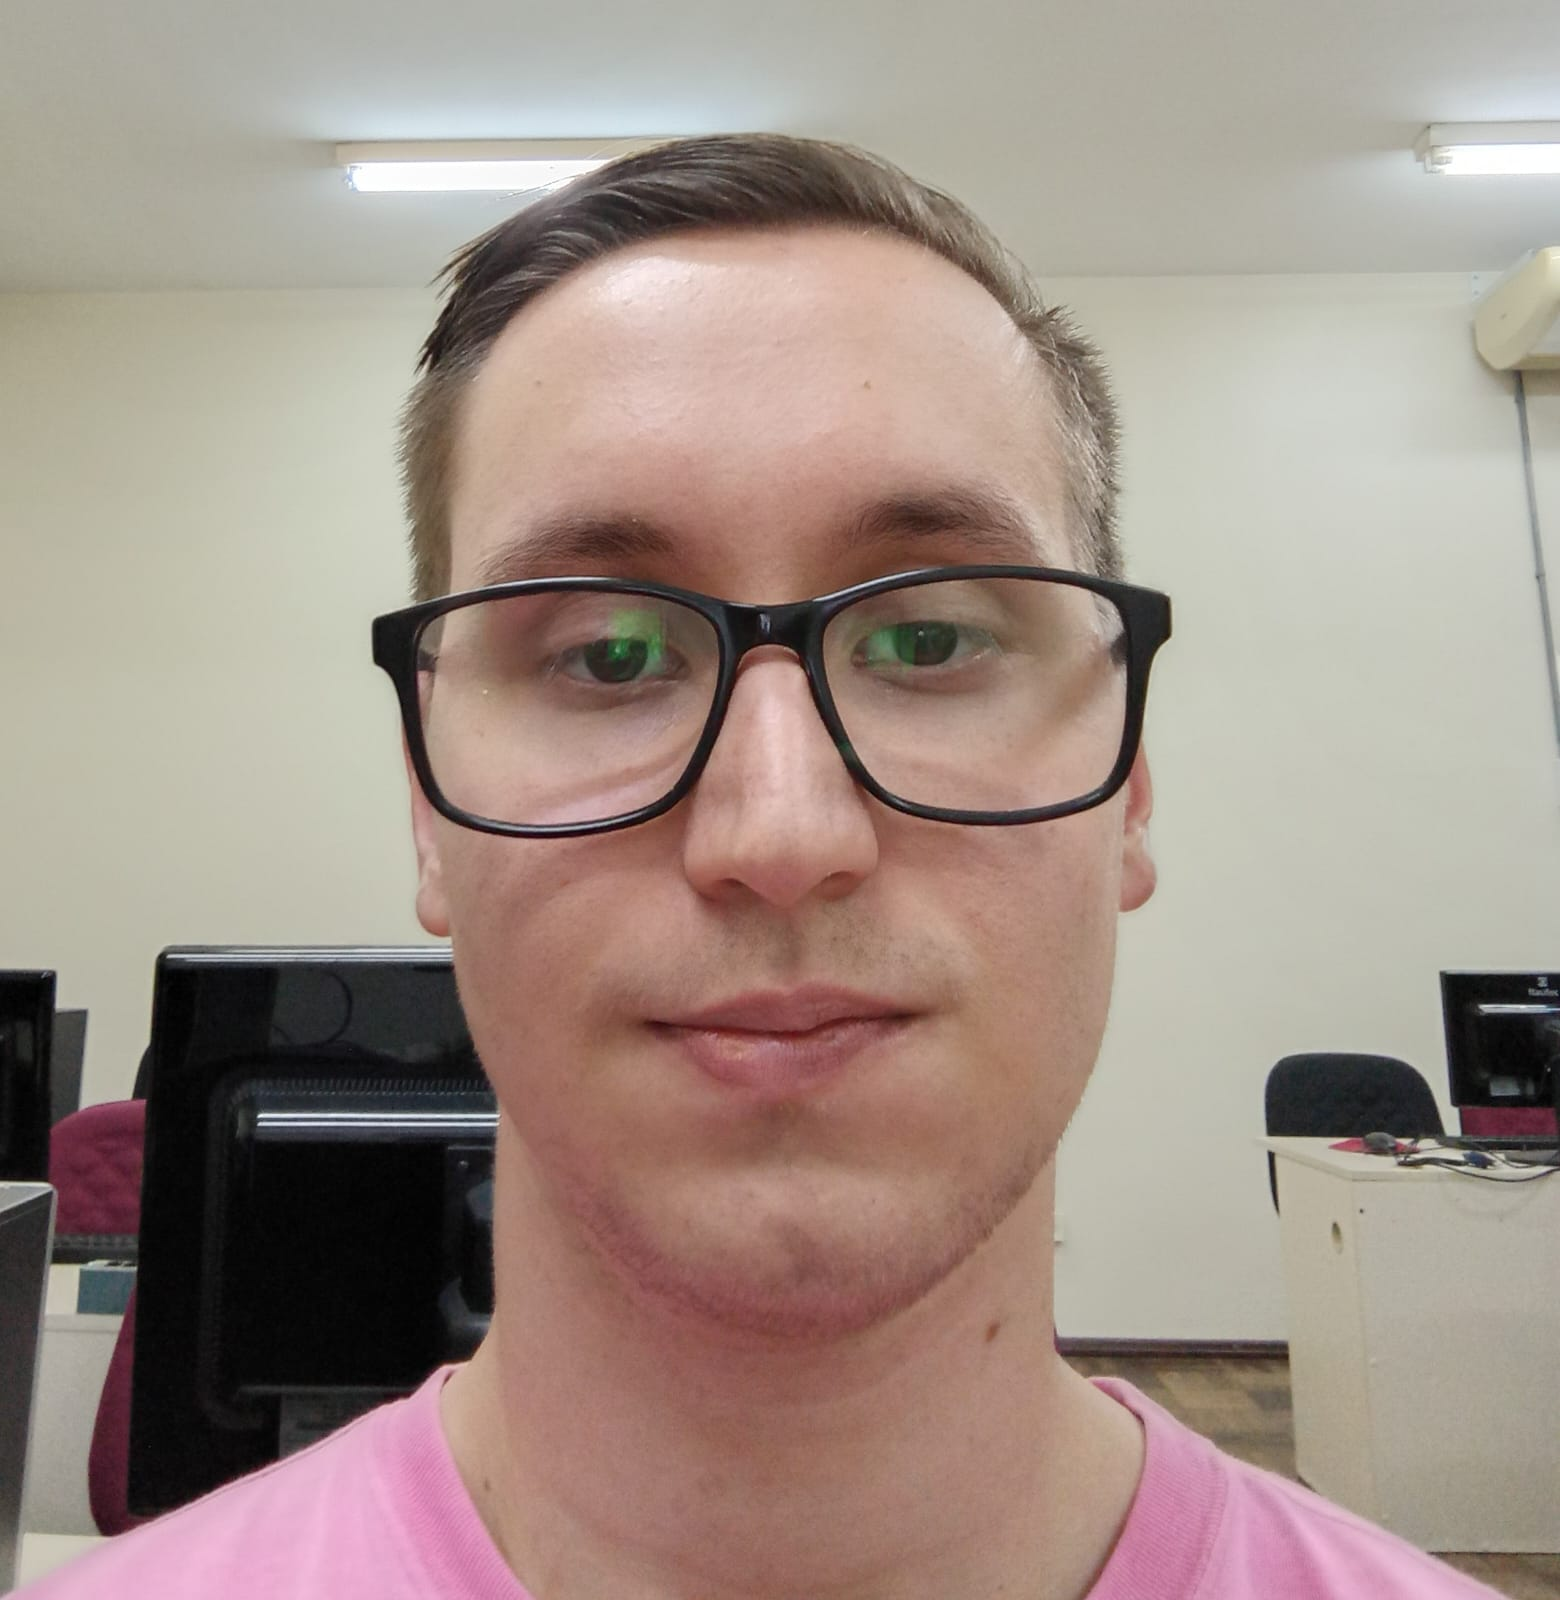
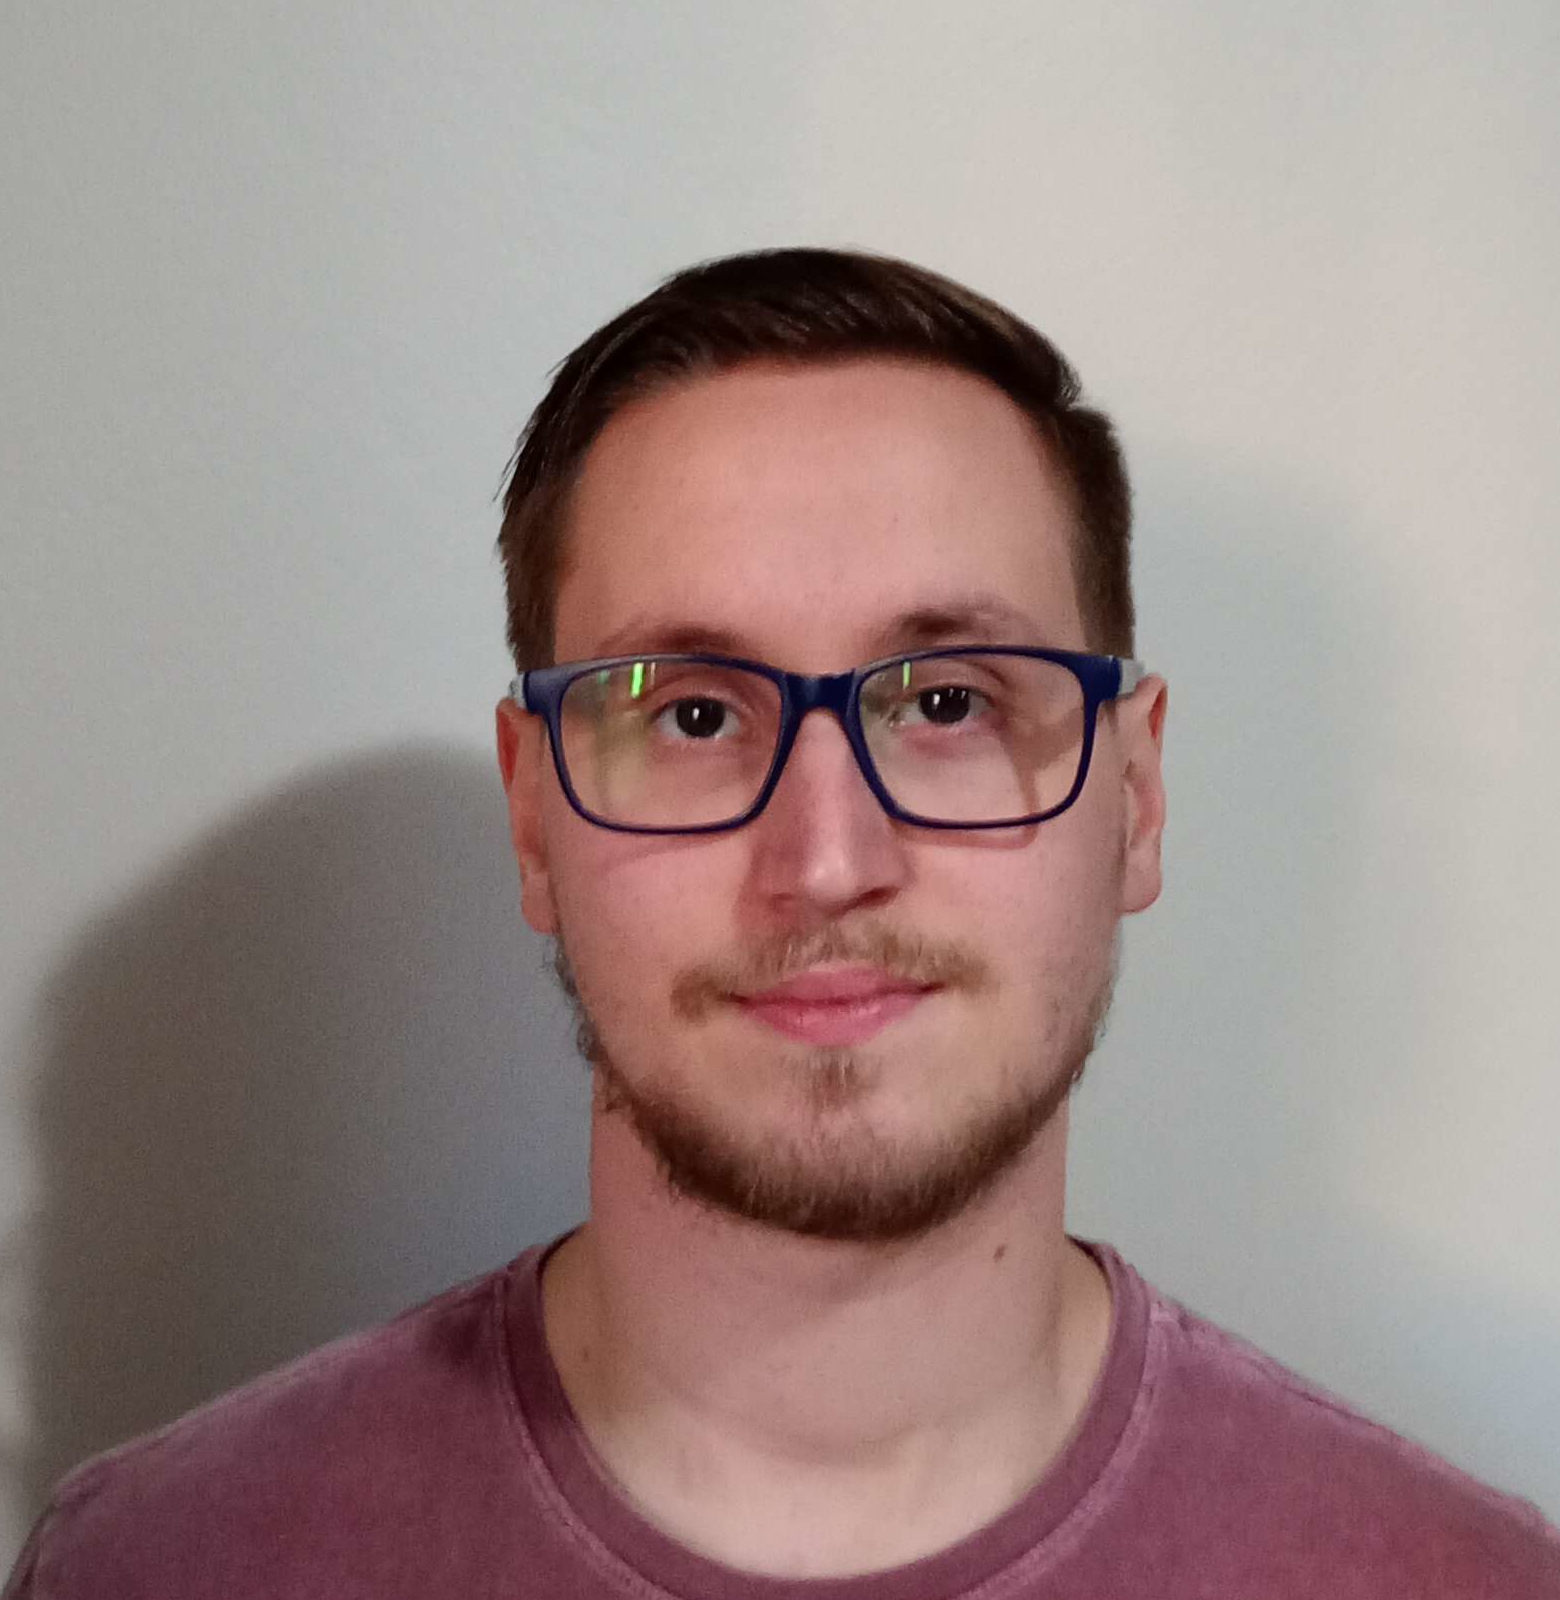
Atualização de cargo e foto

diff --git a/index.html b/index.html
@@ -1,67 +1,119 @@
 <!DOCTYPE html>
 <html lang="pt-BR">
-<head>
-    <meta charset="UTF-8">
-    <meta name="viewport" content="width=device-width, initial-scale=1.0">
+  <head>
+    <meta charset="UTF-8" />
+    <meta name="viewport" content="width=device-width, initial-scale=1.0" />
     <title>Currículo - Júlio Spezzia de Souza</title>
-    <link rel="stylesheet" href="style.css">
-</head>
-<body>
+    <link rel="stylesheet" href="style.css" />
+  </head>
+  <body>
     <div class="container">
-        <div class="sidebar">
-            <img src="image.jpeg" alt="Foto de Júlio Spezzia de Souza">
-            <h2>CONTATO</h2>
-            <p>Jaraguá do Sul - SC</p>
-            <p>(47) 99616-0376</p>
-            <p><a style="color:white" href="mailto:juliospezziasouza@gmail.com">juliospezziasouza@gmail.com</a></p>
-            <p><a style="color:white" href="https://github.com/JulioSPSouza">https://github.com/JulioSPSouza</a></p>
-            <h2>SKILLS</h2>
-            <ul>
-                <li>Desenvolvimento de Software</li>
-                <li>Lógica de programação</li>
-                <li>Capacidade Analítica</li>
-            </ul>
-            <h2>HARD SKILLS</h2>
-            <ul>
-                <li>HTML | CSS | JavaScript | ReactJS</li>
-                <li>Bancos de dados relacionais</li>
-                <li>Caché</li>
-                <li>Sistema Operacionais</li>
-                <li>Linguagens C | C# | Java</li>
-                <li>Prototipagem de Projetos</li>
-		<li>Python básico</li>
-            </ul>
-            <h2>INF. ADICIONAIS</h2>
-            <p>Conectando saberes (Projeto do IFSC para acadêmicos), onde realizei pesquisas na área da química.</p>
-            <p>Projetos de Aprendizagem Colaborativa (PAC), onde realizei projetos envolvendo robótica, automação residencial, jogos eletrônicos, aplicações mobile.</p>
-        </div>
-        <div class="content">
-            <h2>JÚLIO SPEZZIA DE SOUZA</h2>
-            <h3>PERFIL PESSOAL</h3>
-            <p>Acadêmico de Bacharelado em Engenharia de Software com habilidades distintas na resolução de problemas e domínio eficaz de sistemas operacionais.</p>
-            <p>Sou uma pessoa autodidata e estou sempre em busca de oportunidades para aprimorar meus conhecimentos. Possuo um potencial notável para destacar-me como desenvolvedor de software.</p>
-            <p>No âmbito linguístico, mantenho um nível intermediário de proficiência na língua inglesa, adquirido de forma autodidata, tanto na leitura quanto na comunicação oral.</p>
-            <p>Minha experiência abrange sistemas operacionais Windows e Unix-like, especificamente Debian e FreeBSD. Além disso, possuo conhecimento em diversas linguagens de programação, especialmente aquelas que possuem sintaxe semelhante ao c. Realizei também cursos de JavaScript e React no youtube, pois procuro me especializar em desenvolvimento web full-stack, demonstrando meu comprometimento em explorar diversas ferramentas e tecnologias no campo da engenharia de software.</p>
-            <p>Além do meu foco em desenvolvimento de software, trago também conhecimentos sólidos em princípios químicos e laboratoriais, evidenciando uma base diversificada e uma abordagem multidisciplinar aos meus estudos.</p>
-            <h3>HISTÓRICO ACADÊMICO</h3>
-            <p><strong>Centro Universitário Católica de SC</strong></p>
-            <p>Bacharelado em Engenharia de Software - Concluído</p>
-            <p><strong>Instituto Federal de SC</strong></p>
-            <p>Técnico em Química no IFSC - Concluído</p>
-            <h3>EXPERIÊNCIA PROFISSIONAL</h3>
-            <p><strong>Auxiliar administrativo</strong></p>
-            <p>Auto Elétrica Gevocar - 2016 á 2018 </p>
-            <ul>
-                <li>Durante minha atuação, fui responsável no auxílio da parte administrativa e conferência de estoque</li>
-                <li><strong>Habilidades Interpessoais Adquiridas:</strong> Gestão Administrativa | Comunicação Efetiva | Solução Criativa de Problemas</li>
-            </ul>
-            <p><strong>Montador de peças elétricas</strong></p>
-            <p>WEG - fev de 2022 até o momento</p>
-            <ul>
-                <li>Durante minha atuação, trabalhei com montagem de capacitores</li>
-                <li><strong>Habilidades Interpessoais Adquiridas:</strong> Conhecimento de ferramentas e equipamentos | Cumprimento de Padrões de Qualidade | Testes e Diagnósticos</li>
-            </ul>
-        </div>
+      <div class="sidebar">
+        <img src="image.jpeg" alt="Foto de Júlio Spezzia de Souza" />
+        <h2>CONTATO</h2>
+        <p>Jaraguá do Sul - SC</p>
+        <p>(47) 99616-0376</p>
+        <p>
+          <a style="color: white" href="mailto:juliospezziasouza@gmail.com"
+            >juliospezziasouza@gmail.com</a
+          >
+        </p>
+        <p>
+          <a style="color: white" href="https://github.com/JulioSPSouza"
+            >https://github.com/JulioSPSouza</a
+          >
+        </p>
+        <h2>SKILLS</h2>
+        <ul>
+          <li>Desenvolvimento de Software</li>
+          <li>Lógica de programação</li>
+          <li>Capacidade Analítica</li>
+        </ul>
+        <h2>HARD SKILLS</h2>
+        <ul>
+          <li>HTML | CSS | JavaScript | ReactJS</li>
+          <li>Bancos de dados relacionais</li>
+          <li>Caché</li>
+          <li>Sistema Operacionais</li>
+          <li>Linguagens C | C# | Java</li>
+          <li>Prototipagem de Projetos</li>
+          <li>Python básico</li>
+        </ul>
+        <h2>INF. ADICIONAIS</h2>
+        <p>
+          Conectando saberes (Projeto do IFSC para acadêmicos), onde realizei
+          pesquisas na área da química.
+        </p>
+        <p>
+          Projetos de Aprendizagem Colaborativa (PAC), onde realizei projetos
+          envolvendo robótica, automação residencial, jogos eletrônicos,
+          aplicações mobile.
+        </p>
+      </div>
+      <div class="content">
+        <h2>JÚLIO SPEZZIA DE SOUZA</h2>
+        <h3>PERFIL PESSOAL</h3>
+        <p>
+          Acadêmico de Bacharelado em Engenharia de Software com habilidades
+          distintas na resolução de problemas e domínio eficaz de sistemas
+          operacionais.
+        </p>
+        <p>
+          Sou uma pessoa autodidata e estou sempre em busca de oportunidades
+          para aprimorar meus conhecimentos. Possuo um potencial notável para
+          destacar-me como desenvolvedor de software.
+        </p>
+        <p>
+          No âmbito linguístico, mantenho um nível intermediário de proficiência
+          na língua inglesa, adquirido de forma autodidata, tanto na leitura
+          quanto na comunicação oral.
+        </p>
+        <p>
+          Minha experiência abrange sistemas operacionais Windows e Unix-like,
+          especificamente Debian e FreeBSD. Além disso, possuo conhecimento em
+          diversas linguagens de programação, especialmente aquelas que possuem
+          sintaxe semelhante ao c. Realizei também cursos de JavaScript e React
+          no youtube, pois procuro me especializar em desenvolvimento web
+          full-stack, demonstrando meu comprometimento em explorar diversas
+          ferramentas e tecnologias no campo da engenharia de software.
+        </p>
+        <p>
+          Além do meu foco em desenvolvimento de software, trago também
+          conhecimentos sólidos em princípios químicos e laboratoriais,
+          evidenciando uma base diversificada e uma abordagem multidisciplinar
+          aos meus estudos.
+        </p>
+        <h3>HISTÓRICO ACADÊMICO</h3>
+        <p><strong>Centro Universitário Católica de SC</strong></p>
+        <p>Bacharelado em Engenharia de Software - Concluído</p>
+        <p><strong>Instituto Federal de SC</strong></p>
+        <p>Técnico em Química no IFSC - Concluído</p>
+        <h3>EXPERIÊNCIA PROFISSIONAL</h3>
+        <p><strong>Auxiliar administrativo</strong></p>
+        <p>Auto Elétrica Gevocar - 2016 á 2018</p>
+        <ul>
+          <li>
+            Durante minha atuação, fui responsável no auxílio da parte
+            administrativa e conferência de estoque
+          </li>
+          <li>
+            <strong>Habilidades Interpessoais Adquiridas:</strong> Gestão
+            Administrativa | Comunicação Efetiva | Solução Criativa de Problemas
+          </li>
+        </ul>
+        <p><strong>Montador de peças elétricas</strong></p>
+        <p>WEG - fev de 2022 até outubro de 2025</p>
+        <ul>
+          <li>Durante minha atuação, trabalhei com montagem de capacitores</li>
+          <li>
+            <strong>Habilidades Interpessoais Adquiridas:</strong> Conhecimento
+            de ferramentas e equipamentos | Cumprimento de Padrões de Qualidade
+            | Testes e Diagnósticos
+          </li>
+        </ul>
+        <p><strong>Desenvolvedor 1</strong></p>
+        <p>Upflux - outubro de 2025 até o momento.</p>
+      </div>
     </div>
-</body>
+  </body>
 </html>
